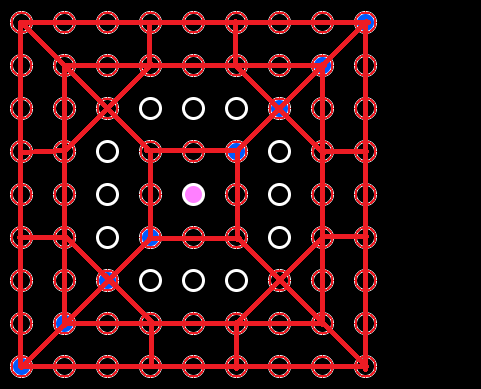
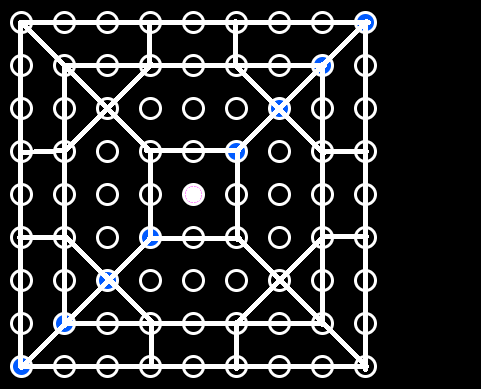
white lines background

Changed region(s): [[0.0, 0.0308, 0.7796, 0.9871], [0.3742, 0.4627, 0.4366, 0.5244]]

diff --git a/earthchess.css b/earthchess.css
@@ -20,7 +20,7 @@ background-size: cover;
     .white {
     background-color: rgb(255, 255, 255);
     border: solid;
-    border-color: rgb(255, 0, 0);
+    border-color: rgb(255, 255, 255);
     width:17px;
     height:17px;
     border-radius: 50%;
